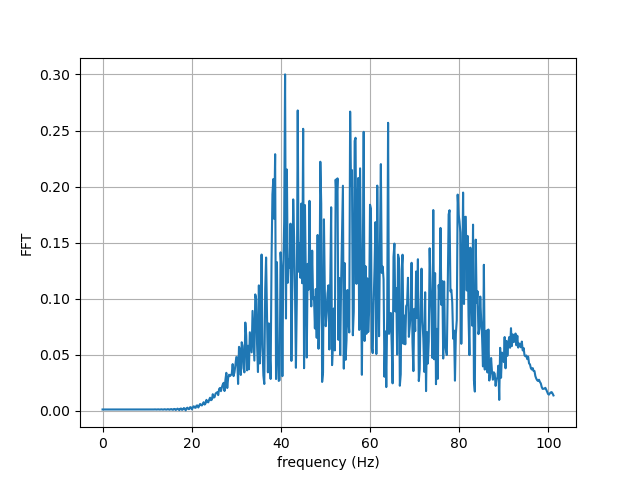
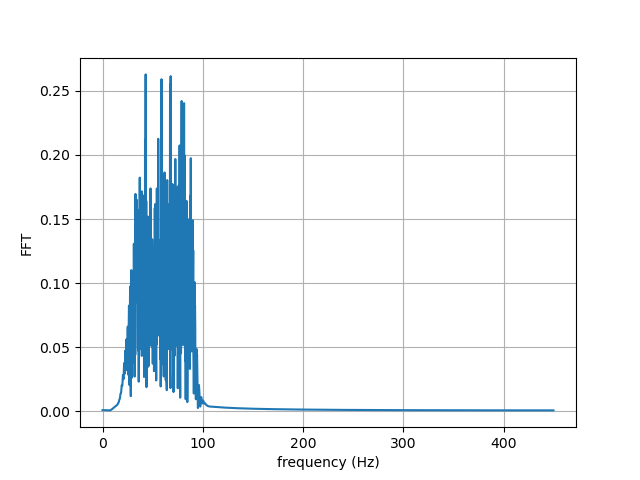
Add files via upload

diff --git a/WanderingLine/sigAnalysis.py b/WanderingLine/sigAnalysis.py
@@ -4,27 +4,25 @@ import numpy as np
 from scipy.signal import ShortTimeFFT
 from scipy.signal.windows import gaussian
 
-def plotFFT(x, y, filename='FFTPlot'):
+def plotFFT(x, y, Ts, filename='FFTPlot'):
     N = len(x)
-    T = x[1]-x[0]
     yf = fft(y)
-    xf = fftfreq(N, T)[:N//2]
+    xf = fftfreq(N, Ts)[:N//2]
     plt.plot(xf, 2.0/N * np.abs(yf[0:N//2]), '-')
     plt.xlabel('frequency (Hz)'); plt.ylabel('FFT')
     plt.grid()
     plt.savefig(r'C:\Users\casey\Desktop\REU24\WanderingLine\SignalPlots\\' + filename + '.png')
     plt.show()
 
-def plotSpectrogram(times, data, res, filename='SpectrogramPlot'):
-    N = res # number of data points (needs to always match res in freqGen)
-    tgap = times[1] - times[0] # sampling period
+def plotSpectrogram(times, data, Ts, fmax, filename='SpectrogramPlot'):
+    N = len(data); flim = int(1.5*fmax)
 
     g_std = 8  # standard deviation for Gaussian window in samples
     w = gaussian(50, std=g_std, sym=True)  # symmetric Gaussian window
-    SFT = ShortTimeFFT(w, hop=10, fs=1/tgap, mfft=200, scale_to='psd')
+    SFT = ShortTimeFFT(w, hop=10, fs=1/Ts, mfft=200, scale_to='psd')
     Sx = SFT.stft(data)  # perform the STFT
 
-    fig1, ax1 = plt.subplots(figsize=(6., 4.))
+    fig1, ax1 = plt.subplots(figsize=(10., 6.))
     t_lo, t_hi = SFT.extent(N)[:2]  # time range of plot
     ax1.set_title(rf"STFT ({round(SFT.m_num*SFT.T, 2):g}$\,s$ Gaussian window, " +
                 rf"$\sigma_t={round(g_std*SFT.T, 2)}\,$s)")
@@ -32,65 +30,87 @@ def plotSpectrogram(times, data, res, filename='SpectrogramPlot'):
                 rf"$\Delta t = {round(SFT.delta_t, 2):g}\,$s)",
             ylabel=f"Freq. $f$ in Hz ({round(SFT.f_pts, 2)} bins, " +
                 rf"$\Delta f = {round(SFT.delta_f, 2):g}\,$Hz)",
-            xlim=(t_lo, t_hi))
+            xlim=(t_lo, t_hi), ylim=(0, flim))
 
     im1 = ax1.imshow(abs(Sx), origin='lower', aspect='auto',
                     extent=SFT.extent(N), cmap='viridis')
-    fig1.colorbar(im1, label="Magnitude $|S_x(t, f)|$")
+    fig1.colorbar(im1, label="PSD")
     fig1.tight_layout()
     plt.savefig(r'C:\Users\casey\Desktop\REU24\WanderingLine\SignalPlots\\' + filename + '.png')
     plt.show()
 
-def plotAllTime(signal, filename='TimePlots'):
+def plotAllTime(signal, Ts, fmax, filename='TimePlots'):
     plt.figure(figsize=(15, 10))
     plot1 = plt.subplot2grid((4, 1), (0, 0)) 
     plot2 = plt.subplot2grid((4, 1), (1, 0))
     plot3 = plt.subplot2grid((4, 1), (2, 0)) 
     plot4 = plt.subplot2grid((4, 1), (3, 0)) 
 
-    plot1.plot(signal[0], signal[4], color='hotpink') 
-    plot1.plot(signal[3][:, 0], signal[3][:, 1], 'o', color = 'pink')
-    plot1.set_ylabel('freq (Hz)')
-    plot1.set_title('Frequency') 
-
-    plot2.plot(signal[0], signal[2], '-', color='g') 
-    plot2.set_yticks([-2, -1, 0, 1, 2])
-    # axis values are for some reason floats, need to make adaptable
-    plot2.set_ylabel('q(t)')
-    plot2.set_title('Clean Signal') 
-
-    plot3.plot(signal[0], signal[1], 'o', color='g') 
-    plot3.set_ylabel('q(t)')
-    plot3.set_title('iid Signal') 
-
-    tgap = signal[0][1] - signal[0][0] # sampling period
-    N = 1000
+    N = len(signal[0]); flim = int(1.5*fmax)
 
     g_std = 8  # standard deviation for Gaussian window in samples
-    w = gaussian(100, std=g_std, sym=True)  # symmetric Gaussian window
-    SFT = ShortTimeFFT(w, hop=10, fs=1/tgap, mfft=200, scale_to='psd')
+    w = gaussian(50, std=g_std, sym=True)  # symmetric Gaussian window
+    SFT = ShortTimeFFT(w, hop=10, fs=1/Ts, mfft=200, scale_to='psd')
     Sx = SFT.stft(signal[1])  # perform the STFT
 
     t_lo, t_hi = SFT.extent(N)[:2]  # time range of plot
     plot4.set_title(rf"Short FFTs of iid Signal in Spectrogram")
     plot4.set(xlabel=f"t (s)",
             ylabel=f"freq. (Hz)",
-            xlim=(t_lo, t_hi))
+            xlim=(t_lo, t_hi), ylim=(0, flim))
 
     im1 = plot4.imshow(abs(Sx), origin='lower', aspect='auto',
                     extent=SFT.extent(N), cmap='viridis')
+
+    plot1.plot(signal[0], signal[4], color='hotpink') 
+    plot1.plot(signal[3][:, 0], signal[3][:, 1], 'o', color = 'pink')
+    plot1.set(ylabel='freq (Hz)', xlim=(t_lo, t_hi), ylim=(0, flim), title='Frequency(Hz)')
+
+    plot2.plot(signal[0], signal[2], '-', color='g') 
+    # axis values are for some reason floats, need to make adaptable
+    plot2.set(ylabel='q(t)', xlim=(t_lo, t_hi), title='Clean Signal') 
+
+    plot3.plot(signal[0], signal[1], 'o', color='g') 
+    plot3.set(ylabel='q(t)', xlim=(t_lo, t_hi), title='Dist. Signal') 
     
     plt.tight_layout()
     plt.savefig(r'C:\Users\casey\Desktop\REU24\WanderingLine\SignalPlots\\' + filename + '.png')
     plt.show() 
 
-def plotPSD(times, data, filename='PSDPlot'):
-    Ts = times[1] - times[0]
-    
-    plt.subplot(211)
-    plt.plot(times, data)
-    plt.subplot(212)
-    plt.psd(data, 512, 1 / Ts)
+def plotPSD(data, Ts, filename='PSDLinPlot'):
+    plt.figure()
+    plot1 = plt.subplot2grid((2, 1), (0, 0)) 
+    plot2 = plt.subplot2grid((2, 1), (1, 0))
 
+    power, freqs = plot1.psd(data, 512, 1 / Ts, scale_by_freq=False)
+    plot1.set_title('Logarithmic Plot'); plot1.set_xlabel('')
+    plot2.plot(freqs, power); plot2.set_ylabel('Power')
+    plot2.set_title('Linear Plot'); plot2.set_xlabel('Freq. (Hz)')
+    
+    plt.tight_layout()
+    plt.savefig(r'C:\Users\casey\Desktop\REU24\WanderingLine\SignalPlots\\' + filename + '.png')
+    plt.show()
+
+def plotSpectComp(times, Sdata, spline, Ts, fmax, filename='SpectCompPlot'):
+    N = len(Sdata); flim = int(1.5*fmax)
+
+    g_std = 8  # standard deviation for Gaussian window in samples
+    w = gaussian(50, std=g_std, sym=True)  # symmetric Gaussian window
+    SFT = ShortTimeFFT(w, hop=10, fs=1/Ts, mfft=200, scale_to='psd')
+    Sx = SFT.stft(Sdata)  # perform the STFT
+
+    fig1, ax1 = plt.subplots(figsize=(10., 6.))
+    t_lo, t_hi = SFT.extent(N)[:2]  # time range of plot
+    ax1.set_title('Spectrogram of iid Signal and Original Frequency Spline')
+    ax1.set(xlabel=f"Time (s)",
+            ylabel=f"Freq. (Hz)",
+            xlim=(t_lo, t_hi), ylim=(0, flim))
+
+    im1 = ax1.imshow(abs(Sx), origin='lower', aspect='auto',
+                    extent=SFT.extent(N), cmap='viridis')
+    fig1.colorbar(im1, label="PSD")
+    ax1.plot(times, spline, '--', color='r')
+    plt.legend(['Frequency Spline'], loc='upper left')
+    fig1.tight_layout()
     plt.savefig(r'C:\Users\casey\Desktop\REU24\WanderingLine\SignalPlots\\' + filename + '.png')
     plt.show()

diff --git a/WanderingLine/freqGen.py b/WanderingLine/freqGen.py
@@ -5,20 +5,20 @@ import matplotlib.pyplot as plt
 
 # generates M breakpoints spaced n periods apart each with a uniformly random frequency within f0 +- band
 def genKnot(M: int, f0: float, band: float, n = 10):
-    points = np.zeros(shape=(M, 2))
+    knots = np.zeros(shape=(M, 2))
     tgap = round(n/f0, 2) # converting to period
 
     for i in range(M):
         epsi = rand.randrange(-100, 100)*band/100
-        points[i, 0] = i*tgap
-        points[i, 1] = f0 + epsi
-    return points
+        knots[i, 0] = i*tgap
+        knots[i, 1] = f0 + epsi
+    return knots
 
-# interpolates cubic BSpline fitting to an array of 2D points
-def genBSpline(points, res):
-    tck = splrep(points[:, 0], points[:, 1], s=0, k=4) # returns 3-tuple of knots, BSpline coefficients, and polynomial order
+# interpolates cubic BSpline fitting to an array of 2D knots
+def genBSpline(knots, Ts):
+    tck = splrep(knots[:, 0], knots[:, 1], s=0, k=4) # returns 3-tuple of knots, BSpline coefficients, and polynomial order
     
-    xnew = np.linspace(0, points[-1, 0], res) # need to make ocnsistent
+    xnew = np.arange(0, knots[-1, 0], Ts)
     smoothFit = BSpline(*tck)(xnew) # wraps tck into BSpline to generate fit
     return [xnew, smoothFit]
 

diff --git a/WanderingLine/sigGen.py b/WanderingLine/sigGen.py
@@ -6,11 +6,11 @@ import matplotlib.pyplot as plt
 
 # converts frequency to phase using rectangle approximation
 def freqToPhase(freq):
-    tgap = freq[0][1] - freq[0][0] # assumes uniform spacings of frequency
+    Ts = freq[0][1] - freq[0][0] # assumes uniform spacings of frequency
     phase = np.zeros(shape=(len(freq[0])))
     phase[0] = 0
     for i in range(len(freq[0])-1):
-        phase[i+1] = phase[i] + tgap*freq[1][i+1]
+        phase[i+1] = phase[i] + Ts*freq[1][i+1]
 
     return phase
 
@@ -24,9 +24,9 @@ def addVar(data, stnd: float):
     return newdata
 
 # generates a signal of amplitude A with iid noise and smooth frequency variation between M frequencies within the range f0 +- band
-def genSignal(f0: float, band: float, A: float, res, M = 30, drange = 0.4):
+def genSignal(f0: float, band: float, A: float, Ts, M = 30, drange = 0.4):
     freqKnots = fg.genKnot(M, f0, band) # knots for freq spline
-    spline = fg.genBSpline(freqKnots, res) # freq spline
+    spline = fg.genBSpline(freqKnots, Ts) # freq spline
     times = spline[0]; freqs = spline[1]
 
     phase = freqToPhase(spline)

diff --git a/WanderingLine/main.py b/WanderingLine/main.py
@@ -4,15 +4,17 @@ import sigAnalysis as sa
 
 f0 = 60 # constant pivot frequency
 band = 30 # range of variation above and below f0
+fmax = f0 + band
 A = 2 # amplitude of signal
 M = 30
-res = 1000 
+Ts = 1/(10*fmax)
 
-signal = sg.genSignal(f0, band, A, res, M) # generates signal with smoothly varying frequency and iid noise
+signal = sg.genSignal(f0, band, A, Ts, M) # generates signal with smoothly varying frequency and iid noise
 times = signal[0]; distSig = signal[1]; cleanSig = signal[2]; freqKnots = signal[3]; freqs = signal[4]
 
-sa.plotAllTime(signal)
-sa.plotFFT(times, cleanSig) # plots FFT of entire clean data set
-sa.plotPSD(times, cleanSig)
-sa.plotSpectrogram(times, distSig, res)
-fg.plotSpline(times, freqs, freqKnots)
+sa.plotAllTime(signal, Ts, fmax)
+sa.plotFFT(times, cleanSig, Ts)
+sa.plotPSD(cleanSig, Ts)
+#sa.plotSpectrogram(times, distSig, Ts, fmax)
+#fg.plotSpline(times, freqs, freqKnots)
+sa.plotSpectComp(times, distSig, freqs, Ts, fmax)
